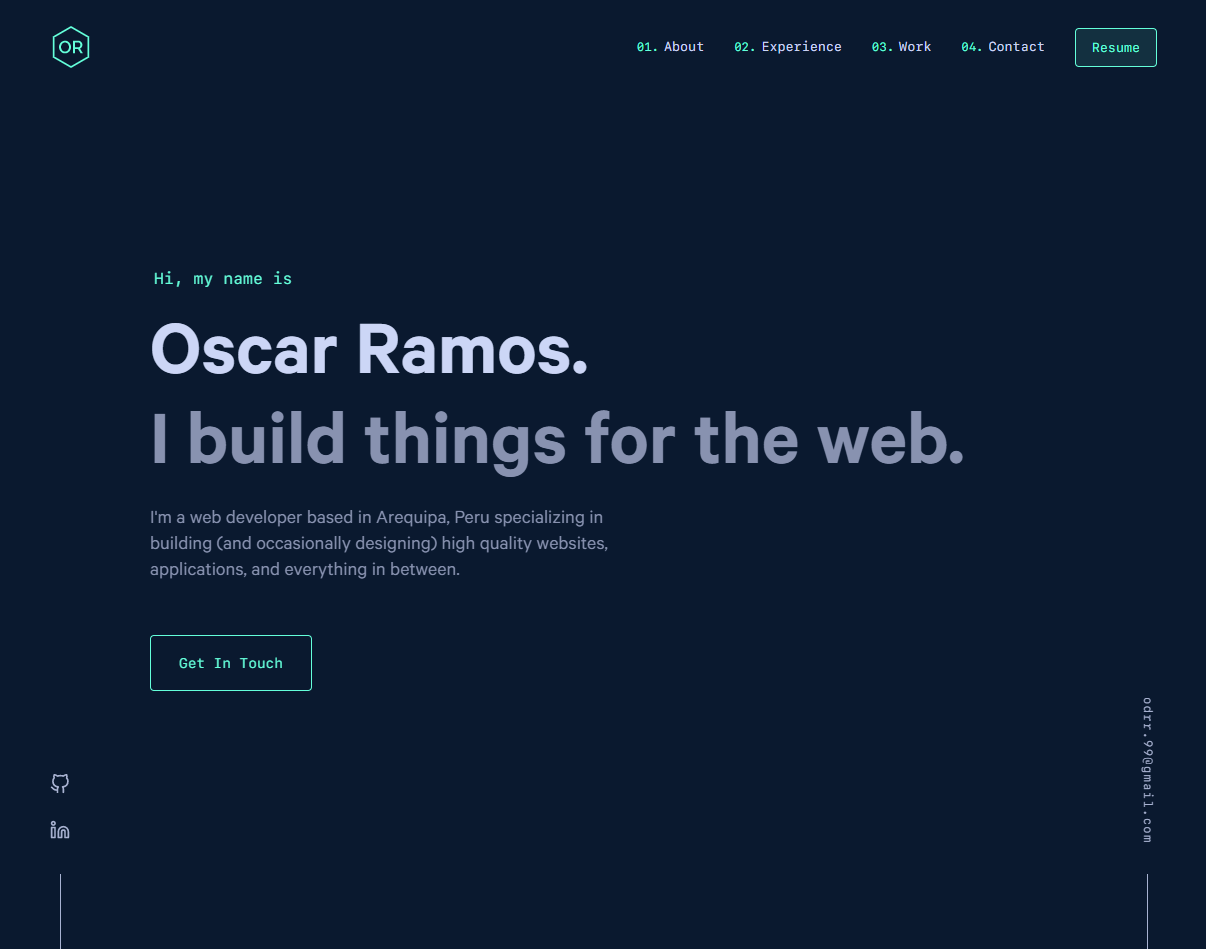
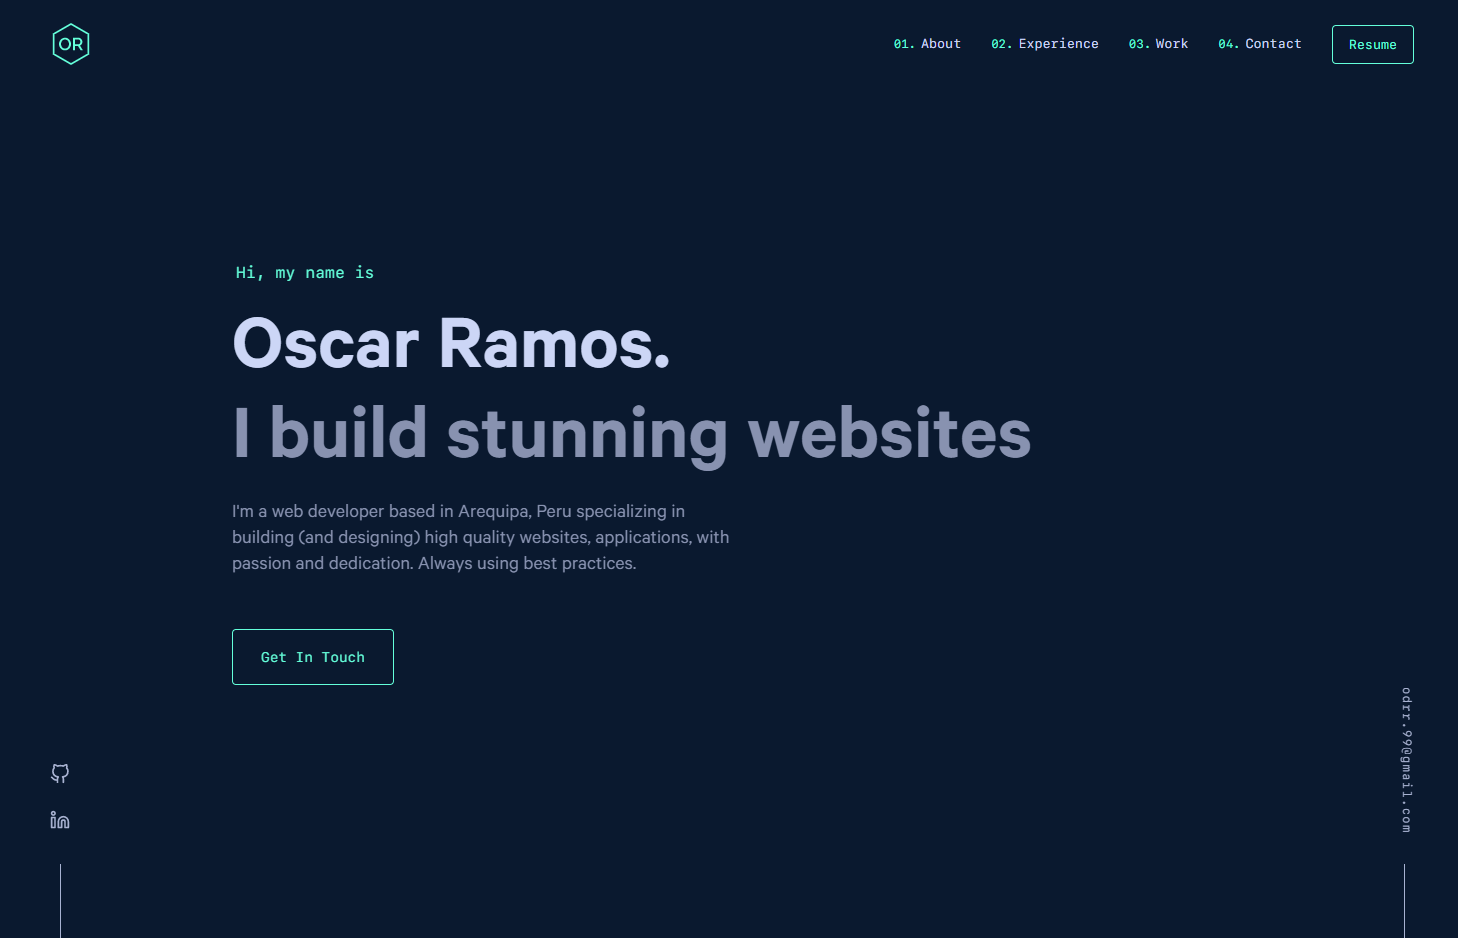
Changed description and demo

diff --git a/src/components/sections/hero.js b/src/components/sections/hero.js
@@ -49,11 +49,11 @@ const Hero = () => {
 
   const one = <h1>Hi, my name is</h1>;
   const two = <h2 className="big-heading">Oscar Ramos.</h2>;
-  const three = <h3 className="big-heading">I build stunning websites with Passion and Dedication</h3>;
+  const three = <h3 className="big-heading">I build stunning websites</h3>;
   const four = (
     <p>
-      I'm a web developer based in Arequipa, Peru specializing in building (and
-      designing) high quality websites, applications, using best practices.
+      I'm a web developer based in Arequipa, Peru specializing in building (and designing) high
+      quality websites, applications, with passion and dedication. Always using best practices.
     </p>
   );
   const five = (
